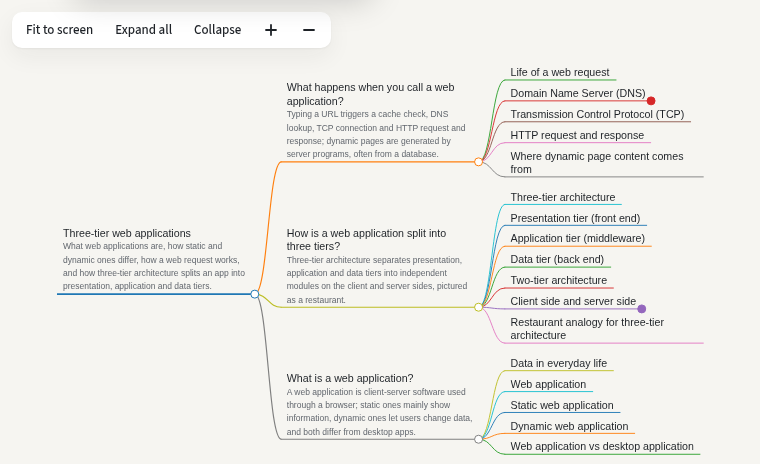
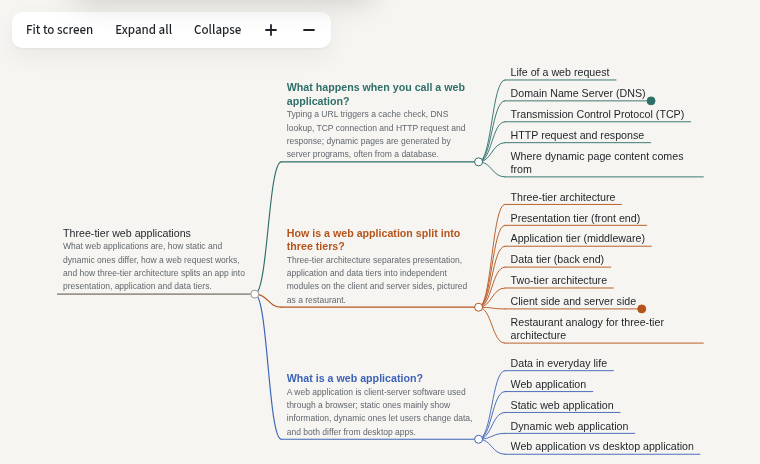
Tree map: one colour per subtopic branch

diff --git a/markmap.html b/markmap.html
@@ -12,6 +12,7 @@
   .markmap-foreign { color: var(--ink); }
   .markmap-foreign div { color: var(--ink); }
   .markmap-node circle { --markmap-circle-open-bg: var(--panel); }
+  .markmap-foreign span.sub { font-weight: 600; }
   .markmap-foreign small { color: var(--muted); font-size: 0.8em; display: block; }
   .markmap-foreign span[data-id] { cursor: pointer; }
   .markmap-foreign span[data-id]:hover { text-decoration: underline; }
@@ -35,11 +36,24 @@
   const t = MapPage.topic();
   const byId = new Map();
   const esc = (s) => s.replace(/[&<>"]/g, (c) => ({ "&": "&amp;", "<": "&lt;", ">": "&gt;", '"': "&quot;" })[c]);
-  function toMarkmap(n, depth) {
+  // One colour per subtopic: its line, its name and everything under it share it, so a branch reads as one family.
+  const dark = matchMedia("(prefers-color-scheme: dark)").matches;
+  const BRANCH = dark
+    ? ["#7cc4bb", "#f0a060", "#86a8f0", "#d29be0", "#7fcf86", "#f08a9e", "#d6c25a", "#a9b6c4"]
+    : ["#2f6f6a", "#b5541c", "#3d63b8", "#8a3f8f", "#2e7d32", "#a33a4f", "#7a6a12", "#4a5a6a"];
+  const ROOT = dark ? "#8a9097" : "#9a958b";
+  function toMarkmap(n, depth, branch) {
     byId.set(String(n.id), n);
-    let html = `<span data-id="${n.id}">${esc(n.name)}</span>`;
+    const colour = depth === 0 ? ROOT : BRANCH[branch % BRANCH.length];
+    let html = depth === 1
+      ? `<span data-id="${n.id}" class="sub" style="color:${colour}">${esc(n.name)}</span>`
+      : `<span data-id="${n.id}">${esc(n.name)}</span>`;
     if (n.line) html += `<small>${esc(n.line)}</small>`;
-    return { content: html, children: n.children.map((c) => toMarkmap(c, depth + 1)), payload: { fold: depth >= 2 && n.children.length ? 1 : 0 } };
+    return {
+      content: html,
+      children: n.children.map((c, i) => toMarkmap(c, depth + 1, depth === 0 ? i : branch)),
+      payload: { fold: depth >= 2 && n.children.length ? 1 : 0, colour },
+    };
   }
   let mm;
   let renderVersion = 0;
@@ -47,8 +61,8 @@
     const version = ++renderVersion;
     if (mm) mm.destroy();
     document.getElementById("mm").innerHTML = "";
-    const root = toMarkmap(t, 0);
-    mm = markmap.Markmap.create("#mm", { maxWidth: 280, spacingHorizontal: 40, spacingVertical: 10, duration: matchMedia("(prefers-reduced-motion: reduce)").matches ? 0 : 250, fitRatio: 0.95, maxInitialScale: 1 });
+    const root = toMarkmap(t, 0, 0);
+    mm = markmap.Markmap.create("#mm", { color: (node) => node.payload?.colour || ROOT, maxWidth: 280, spacingHorizontal: 40, spacingVertical: 10, duration: matchMedia("(prefers-reduced-motion: reduce)").matches ? 0 : 250, fitRatio: 0.95, maxInitialScale: 1 });
     await mm.setData(root);
     if (version === renderVersion) await mm.fit();
   }
